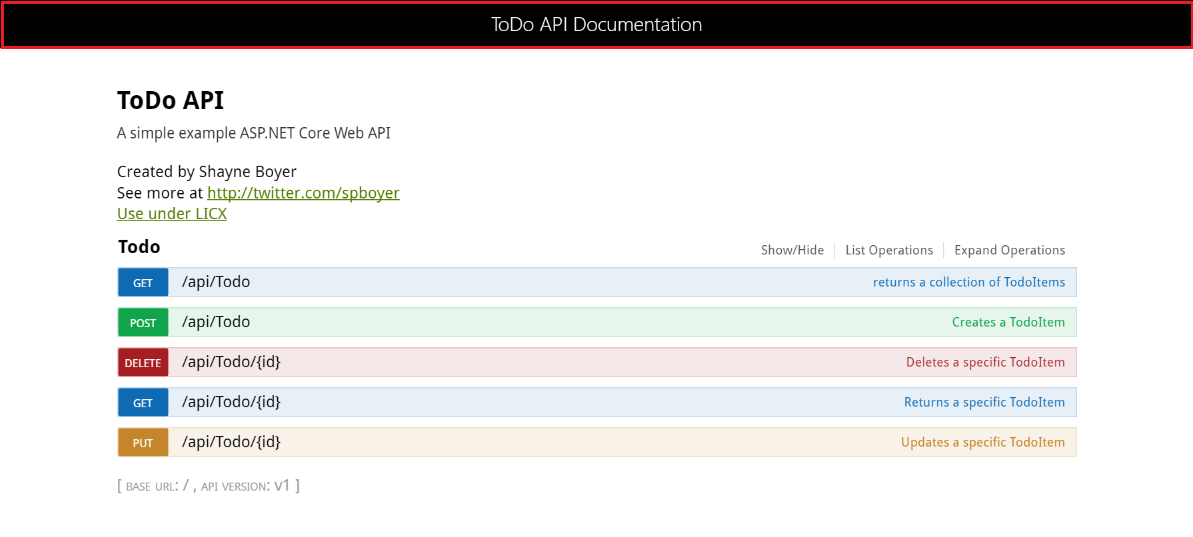
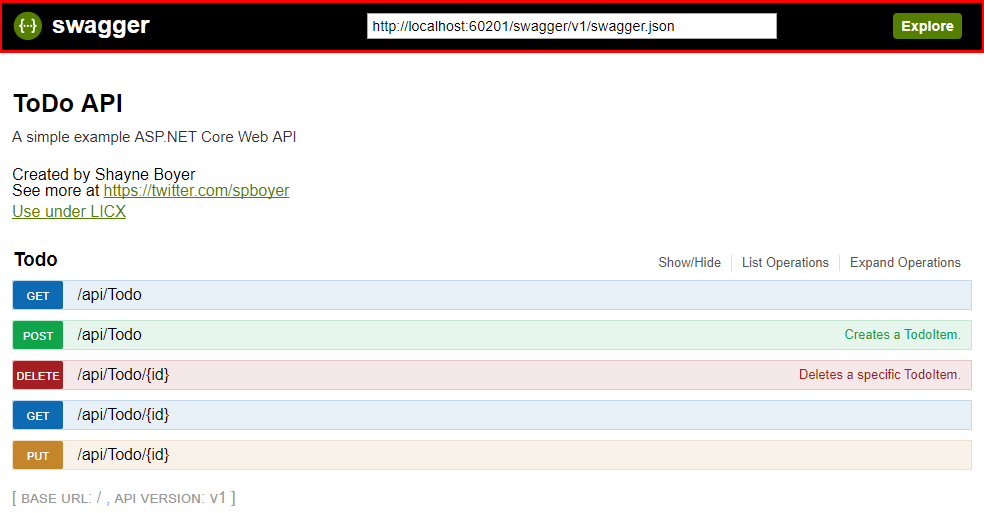
Provide more detail in UI customization text

diff --git a/aspnetcore/tutorials/web-api-help-pages-using-swagger.md b/aspnetcore/tutorials/web-api-help-pages-using-swagger.md
@@ -5,7 +5,7 @@ description: This tutorial provides a walkthrough of adding Swagger to generate 
 keywords: ASP.NET Core,Swagger
 ms.author: spboyer
 manager: wpickett
-ms.date: 08/28/2017
+ms.date: 08/31/2017
 ms.topic: article
 ms.assetid: 54bb961d-29d9-4dee-8e2c-a93fc33c16f2
 ms.technology: aspnet
@@ -282,7 +282,7 @@ Acquire the contents of the *dist* folder from the [Swagger UI GitHub repository
 
 ![Solution Explorer showing Swagger UI custom CSS and HTML files in wwwroot](web-api-help-pages-using-swagger/_static/custom-files-folder-view.png)
 
-Create a *custom.css* file in the *wwwroot/swagger/ui/css* folder. The file should contain the following CSS, which provides a basic header title for the page:
+Create a *custom.css* file in the *wwwroot/swagger/ui/css* folder. The file should contain the following CSS, which customizes the page header:
 
 [!code-css[Main](../tutorials/web-api-help-pages-using-swagger/sample/TodoApi/wwwroot/swagger/ui/css/custom.css)]
 
@@ -290,7 +290,7 @@ Reference *custom.css* in the *index.html* file:
 
 [!code-html[Main](../tutorials/web-api-help-pages-using-swagger/sample/TodoApi/wwwroot/swagger/ui/index.html?range=14)]
 
-The resulting page looks as follows:
+Browse to the *index.html* page at `http://localhost:<random_port>/swagger/ui/index.html`. Enter `http://localhost:<random_port>/swagger/v1/swagger.json` in the header's textbox, and click the **Explore** button. The resulting page looks as follows:
 
 ![Swagger UI with custom header title](web-api-help-pages-using-swagger/_static/custom-header.png)
 
